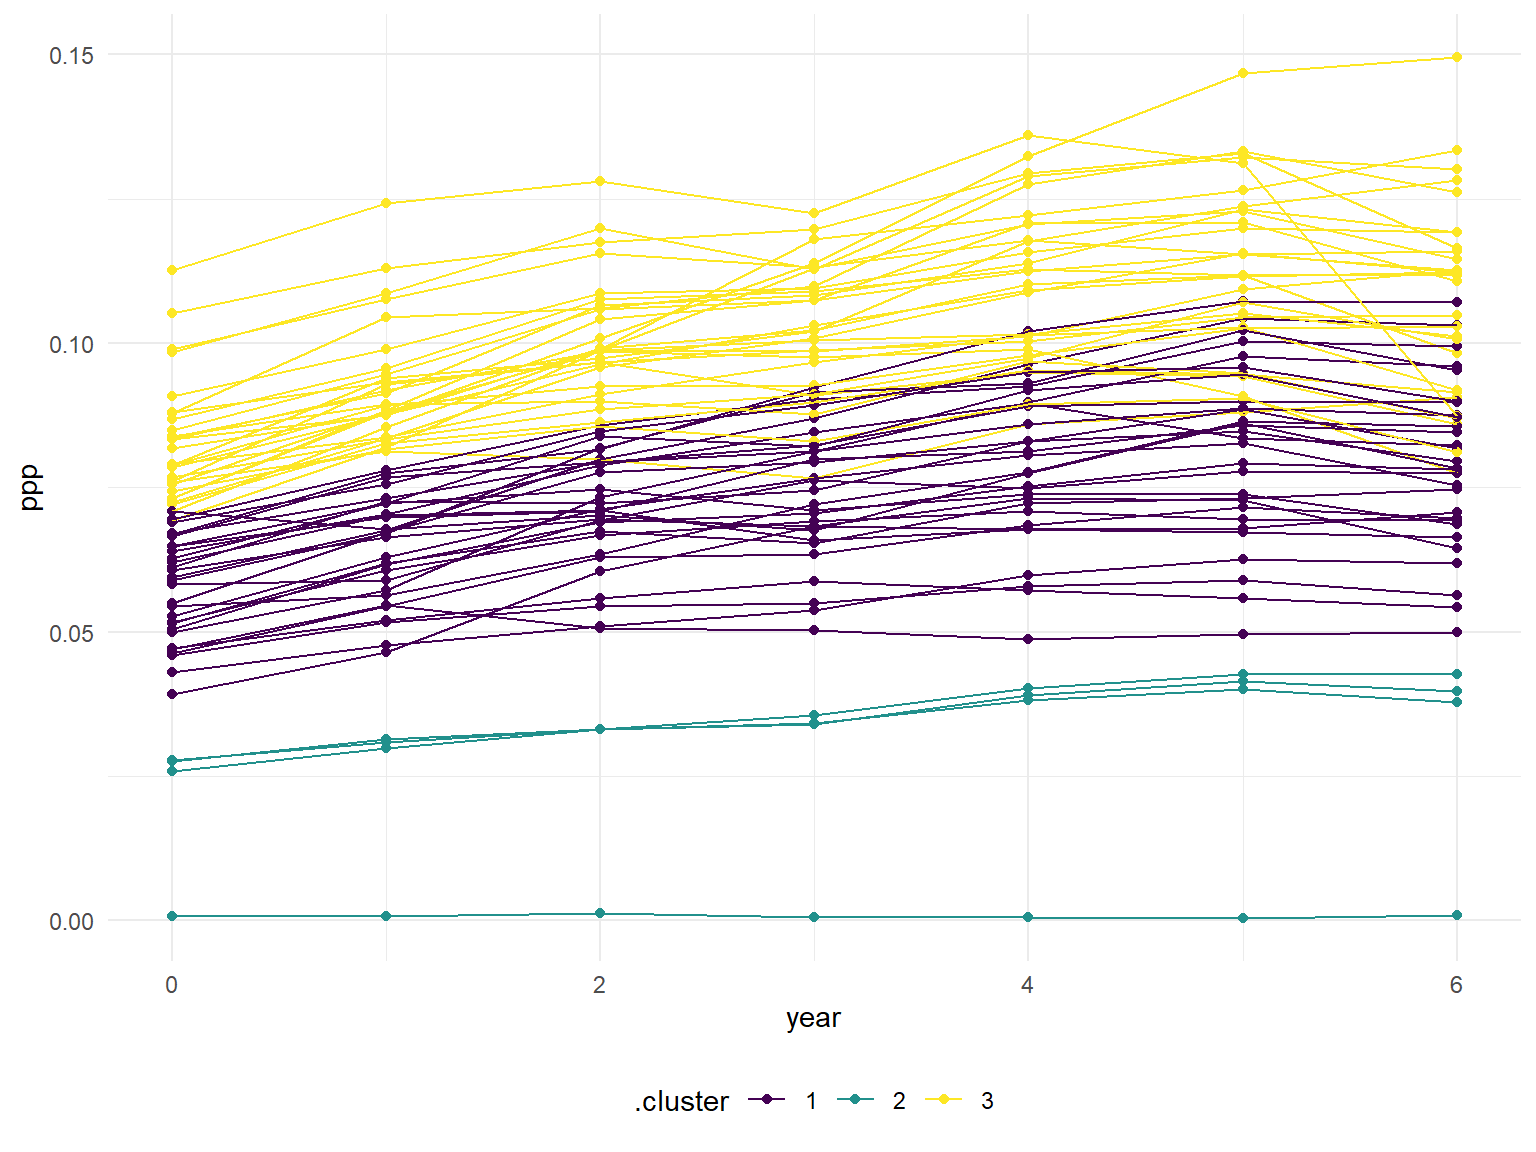
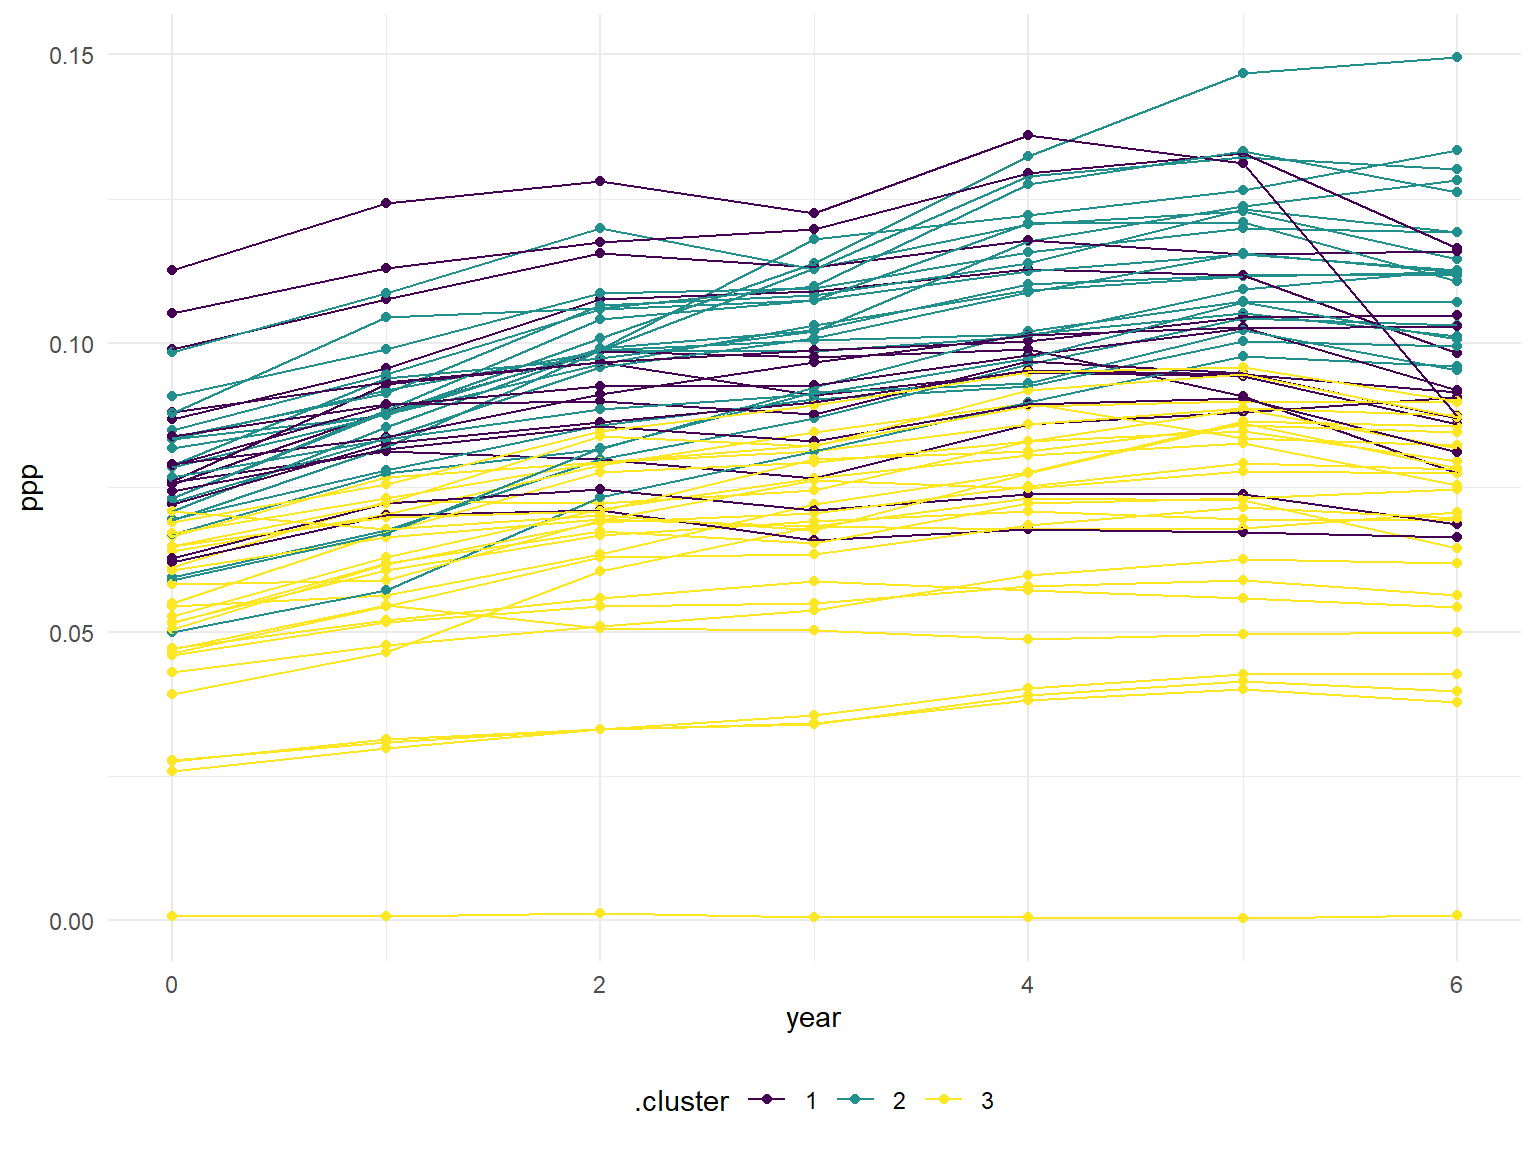
clustered the slope and intercept of pills per person over time

diff --git a/final_project_jsg.html b/final_project_jsg.html
@@ -469,13 +469,13 @@ pharma_df = left_join(prod_county, county_pop, by = c(&quot;buyer_county&quot;, 
 <p><img src="final_project_jsg_files/figure-html/unnamed-chunk-3-1.png" width="90%" /></p>
 <pre class="r"><code>km_fit = 
   kmeans(
-    int_slope_df[,c(2,3)], 
+    int_slope_df[,c(2,3)] %&gt;% scale, 
     centers = 3)
 
 int_slope_df =
   broom::augment(km_fit, int_slope_df)</code></pre>
 <pre class="r"><code>int_slope_df %&gt;% 
-  ggplot(aes(x = int, y = slope, color = .cluster)) +
+  ggplot(aes(x = slope, y = int, color = .cluster)) +
   geom_point()</code></pre>
 <p><img src="final_project_jsg_files/figure-html/unnamed-chunk-5-1.png" width="90%" /></p>
 <pre class="r"><code>left_join(pharma_df, int_slope_df) %&gt;% 
